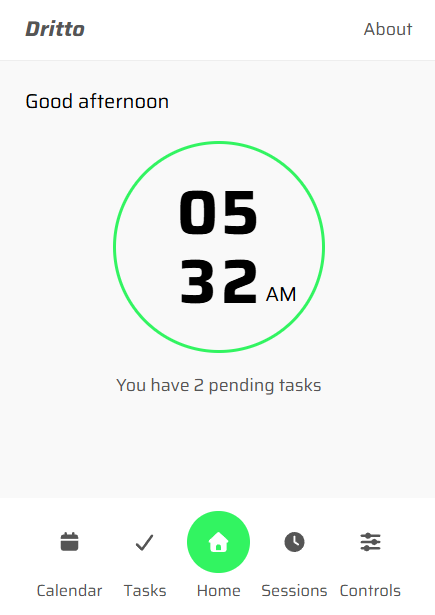
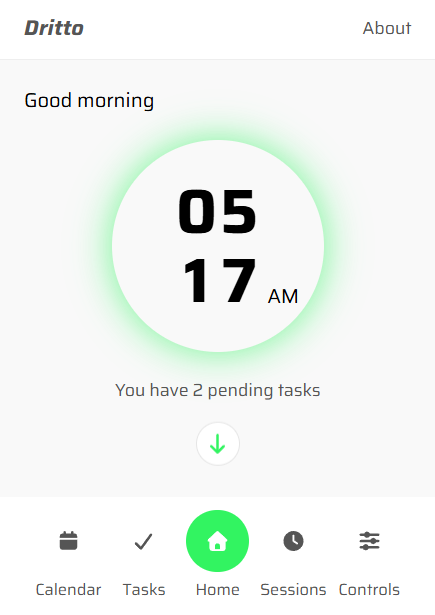
feature: add a bouncing button on home tab and change Clock props name to time

diff --git a/src/components/Clock.tsx b/src/components/Clock.tsx
@@ -1,28 +1,35 @@
 type Props = {
-  date: Date;
+  time: Date;
 };
 
 export default function Clock(props: Props) {
-  let hours = props.date.getHours();
+  let hours = props.time.getHours();
   hours = hours === 0 ? 12 : hours > 12 ? hours - 12 : hours;
   const hoursDigit1 = Math.trunc(hours / 10) % 10;
   const hoursDigit2 = hours % 10;
-  
-  const minutes = props.date.getMinutes();
+
+  const minutes = props.time.getMinutes();
   const minutesDigit1 = Math.trunc(minutes / 10) % 10;
   const minutesDigit2 = minutes % 10;
-
 
   return (
     <div className="clock animate-glow w-[170px] h-[170px] flex justify-center items-center rounded-full mx-auto relative mt-[20px] select-none cursor-pointer transition-colors duration-300 hover:bg-surface-soft">
       <div className="container flex flex-col justify-center items-center">
         <span className="hours text-[50px] leading-[55px] font-bold">
-          <span className="digit w-[34px] text-center inline-block">{hoursDigit1}</span>
-          <span className="digit w-[34px] text-center inline-block">{hoursDigit2}</span>
+          <span className="digit w-[34px] text-center inline-block">
+            {hoursDigit1}
+          </span>
+          <span className="digit w-[34px] text-center inline-block">
+            {hoursDigit2}
+          </span>
         </span>
         <span className="minutes text-[50px] leading-[55px] font-bold">
-          <span className="digit w-[34px] text-center inline-block">{minutesDigit1}</span>
-          <span className="digit w-[34px] text-center inline-block">{minutesDigit2}</span>
+          <span className="digit w-[34px] text-center inline-block">
+            {minutesDigit1}
+          </span>
+          <span className="digit w-[34px] text-center inline-block">
+            {minutesDigit2}
+          </span>
         </span>
         <span className="am absolute right-[20px] bottom-[33px]">
           {hours < 12 ? "AM" : "PM"}

diff --git a/src/components/Home.tsx b/src/components/Home.tsx
@@ -1,12 +1,13 @@
 import { useState, useEffect } from "react";
 import Clock from "./Clock";
+import { FontAwesomeIcon } from "@fortawesome/react-fontawesome";
+import { faArrowDown } from "@fortawesome/free-solid-svg-icons";
 export default function Home() {
-
   const [date, setDate] = useState(new Date());
   const hour = date.getHours();
 
   let greeting: string;
-  switch(true) {
+  switch (true) {
     case hour < 5:
       greeting = "Good night";
       break;
@@ -32,13 +33,20 @@ export default function Home() {
   }, []);
 
   return (
-      <main className="p-[20px] h-tab-height">
-        {greeting}
-        <Clock date={date} />
-        
-        <span className="text-[14px] text-text-muted block text-center mt-[15px]">
-          You have 2 pending tasks
-        </span>
-      </main>
+    <main className="p-[20px] h-tab-height">
+      {greeting}
+      <Clock time={date} />
+
+      <p className="text-[14px] text-text-muted block text-center mt-[20px]">
+        You have 2 pending tasks
+      </p>
+
+      <button
+        type="button"
+        className="flex justify-center items-center mx-auto mt-[20px] text-primary w-[35px] h-[35px] rounded-full bg-white hover:bg-[#fafafa] transition-colors duration-300 animate-bounce cursor-pointer border-[#e5e5e5] border [animation-duration:2s] "
+      >
+        <FontAwesomeIcon icon={faArrowDown} />
+      </button>
+    </main>
   );
 }
